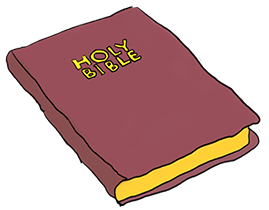
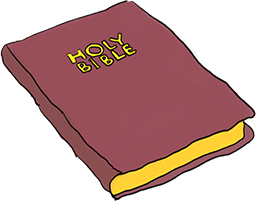
Pull out the correct image for props

diff --git a/Assets/Afternoon/Scripts/AfternoonProp.cs b/Assets/Afternoon/Scripts/AfternoonProp.cs
@@ -29,6 +29,9 @@ public class AfternoonProp : MonoBehaviour {
 
 		sprite.Position = new Vector2(top_left.x - (sprite.Size.x / 2), top_left.y + (sprite.Size.y / 2));
 
+		dfTextureSprite t = (dfTextureSprite)g.GetComponent (typeof(dfTextureSprite));
+		t.Texture = (Texture2D)Resources.Load("Props/" + uPurchasedProp.uProp.uID);
+
 		RecordingProp r = (RecordingProp)g.GetComponent (typeof(RecordingProp));
 		r.uPurchasedProp = uPurchasedProp;
 
